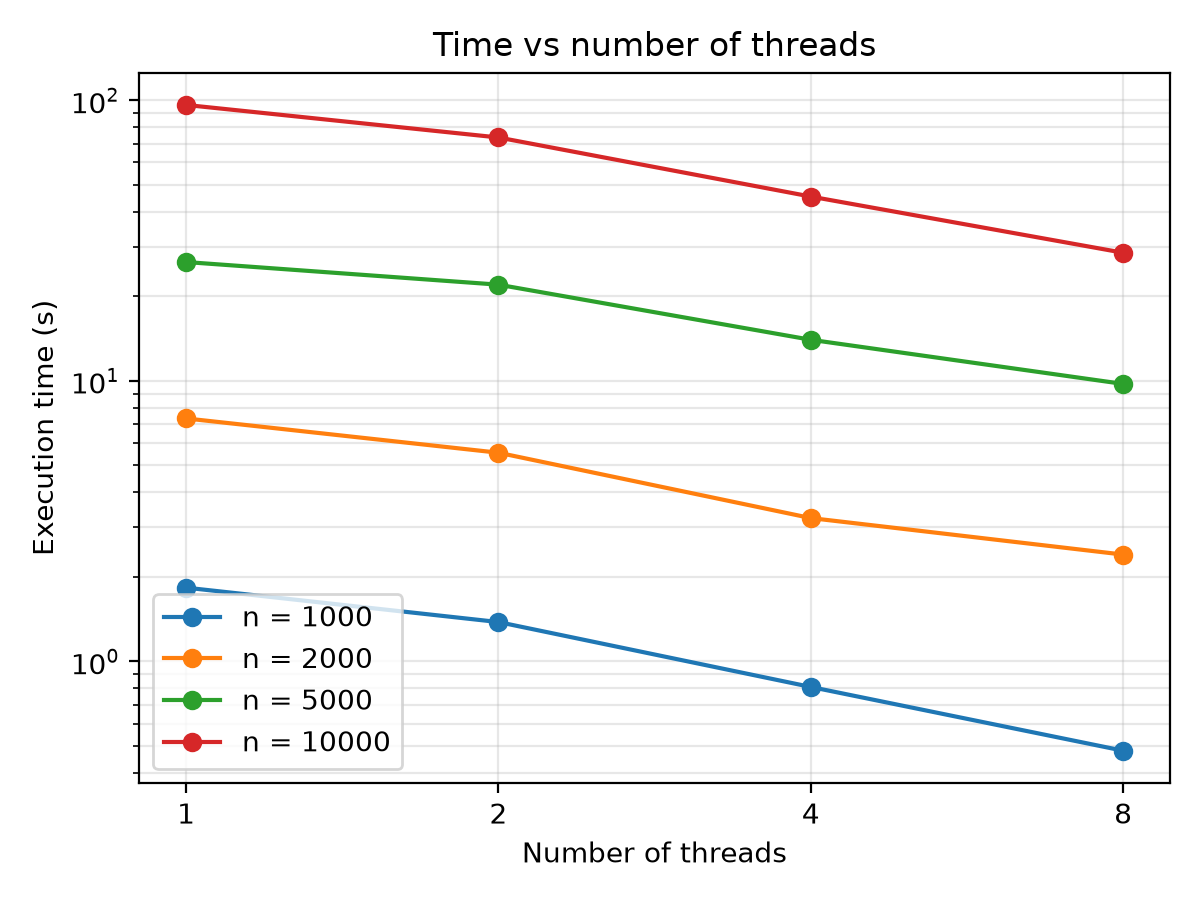
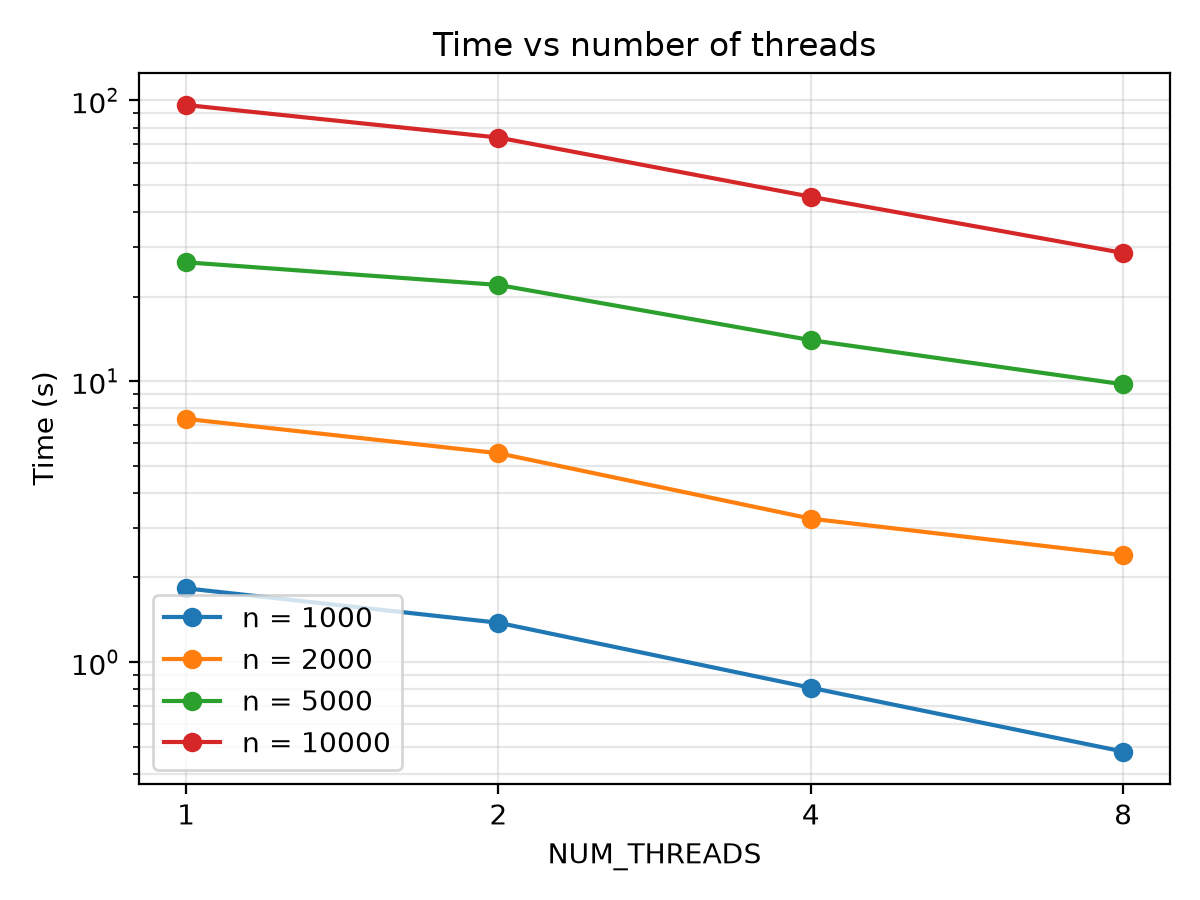
Modified the plots

diff --git a/students/pmi/course_exercise_1/plot_timing.py b/students/pmi/course_exercise_1/plot_timing.py
@@ -26,8 +26,8 @@ ax.set_xscale("log")#, base=2)
 ax.set_yscale("log")
 ax.set_xticks(N_threads, labels=[str(t) for t in N_threads])
 ax.xaxis.set_minor_locator(NullLocator())
-ax.set_xlabel("Number of threads")
-ax.set_ylabel("Execution time (s)")
+ax.set_xlabel("NUM_THREADS")
+ax.set_ylabel("Time (s)")
 ax.set_title("Time vs number of threads")
 ax.grid(alpha=0.3, which="both")
 ax.legend()
@@ -48,8 +48,8 @@ ax.set_xscale("log")
 ax.set_yscale("log")
 ax.set_xticks(ns, labels=[str(n) for n in ns])
 ax.xaxis.set_minor_locator(NullLocator())
-ax.set_xlabel("Number of particles n")
-ax.set_ylabel("Execution time (s)")
+ax.set_xlabel("n")
+ax.set_ylabel("Time (s)")
 ax.set_title("Time vs number of particles")
 ax.grid(alpha=0.3, which="both")
 ax.legend()
